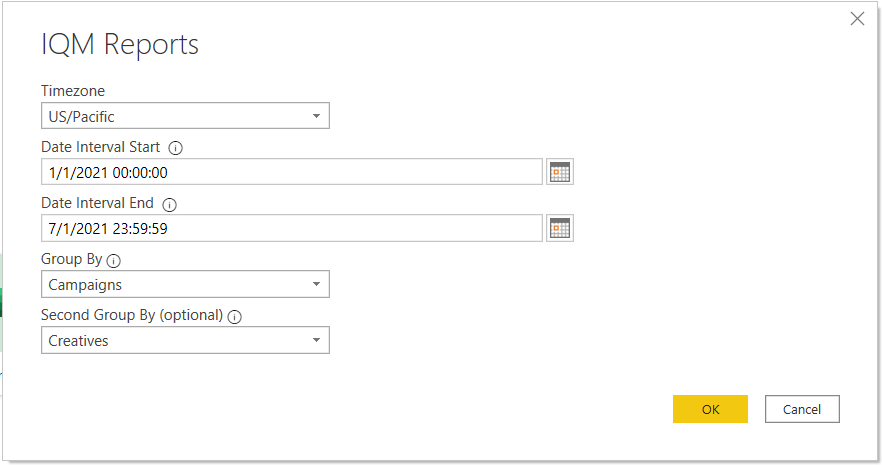
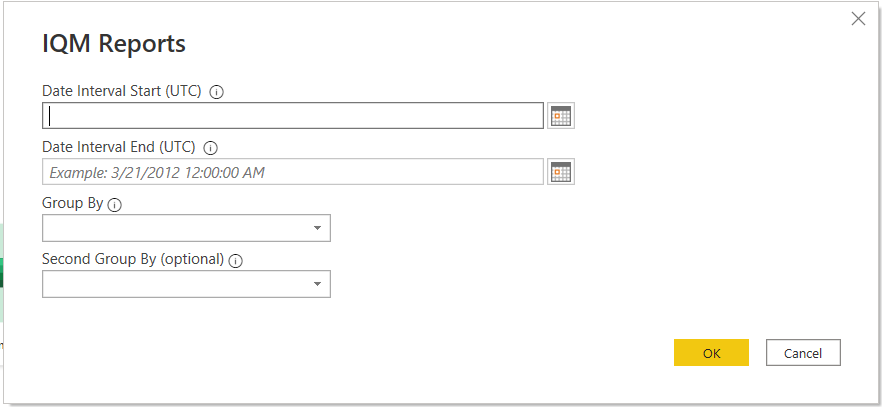
Fix readme and delete comments

diff --git a/README.md b/README.md
@@ -25,7 +25,7 @@ To retrieve data through the IQM Reports connector for use in Power BI Desktop, 
 2. In the **Get Data** dialog box, select the **Online Services** tab and click on the connector labeled **IQM Reports (beta)**. Click the **Connect** button at the bottom of the dialog.
 ![Get Data window with IQM Reports connector selected.](documentation_images/GetData_IQMReports_Connect.png)
 3. Input the required parameters into the IQM Reports dialog and click **OK**.
-![Required parameters: Timezone, Date Interval Start, Date Interval End.](documentation_images/RequiredParameters.png)
+![Required parameters: Date Interval Start, Date Interval End.](documentation_images/RequiredParameters.png)
 4. Sign in using your IQM account. Click **Connect**.
 ![Sign into your IQM account.](documentation_images/SignIn.png)
 ![Sign into your IQM account.](documentation_images/OAuthLoginUpdated.png)
